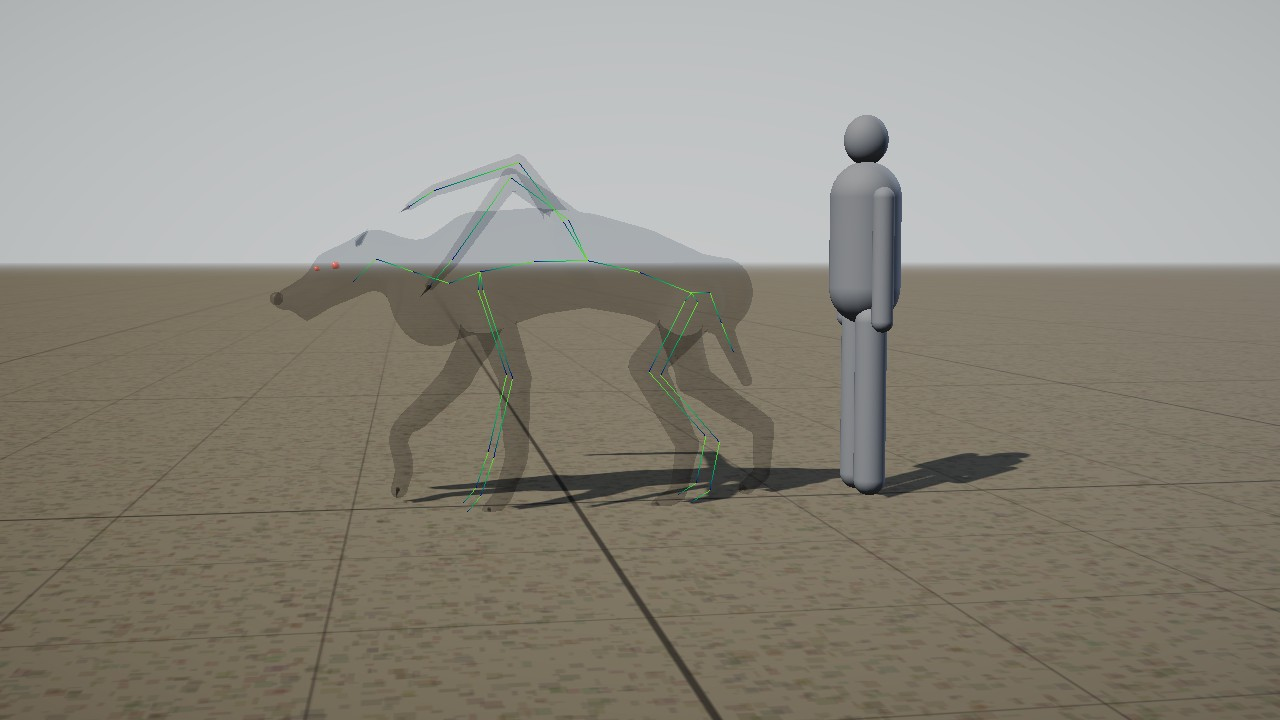
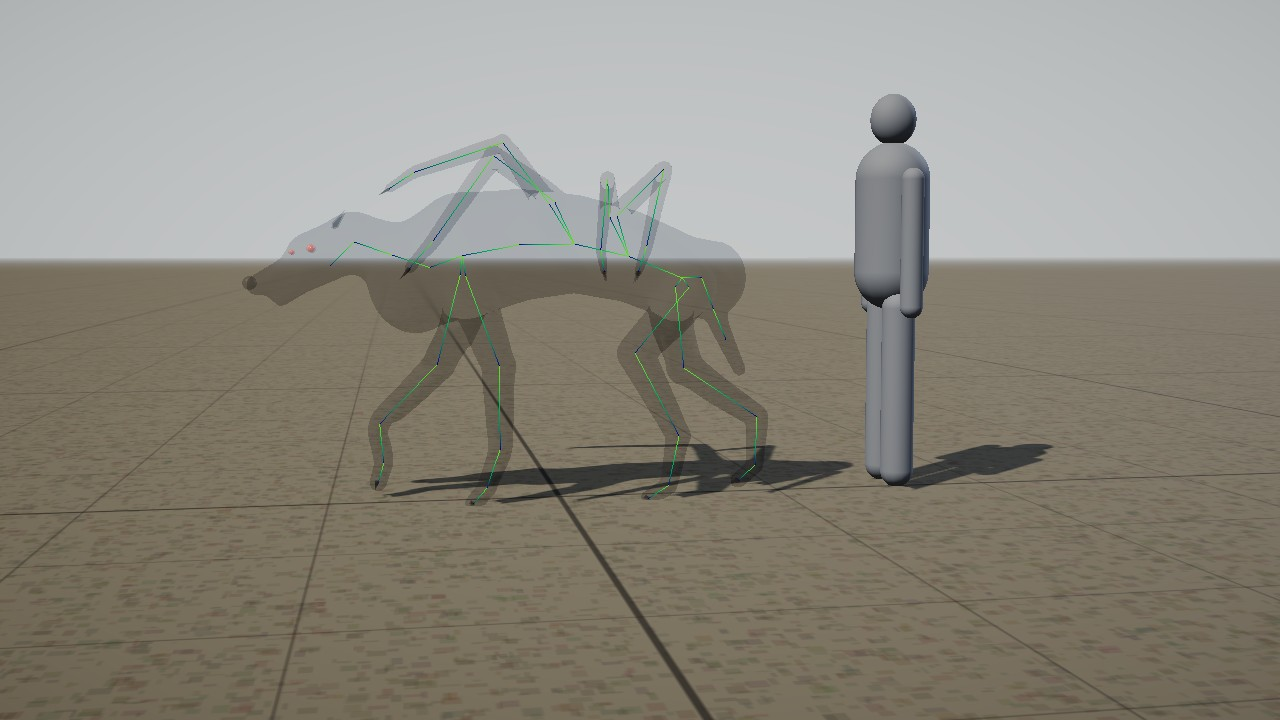
Bodies: Session 1342 — the Faolchú on the creature kit (card F4)
The kit's faolchu plan gains the second pair of arms the game's has had since S211.
On the new look the boss and its lesser kin wear it over the Dire Wolf's rig:
hcKind names a boss the kit may dress, the hunch is not copied twice, the seam
takes the phases' colour through the hide's glow uniform. Cell 0.03: 16,192 tris.

Claude-Session: https://claude.ai/code/session_01R3GFogsAgovcwV915dNF3D

diff --git a/js/34-creatures.js b/js/34-creatures.js
@@ -740,13 +740,16 @@ function tickSpider(rig,g,e,dt,now){
 // on the kit's skeleton (HC_KINDS' merge; people's hbMerge, each bit on the bone it hangs from), made the first time the spider comes
 // to the middle level, in a material of its own (the wind-up's red and the kill's darkening are its alone). The wolves, the boar, the
 // bear and the horses keep theirs: three draw calls, and the Ash Hound's ember seam is the hide's own shader, which the bake would lose.
-// The dragon and the Faolchú keep the old body: their plans are later work.
+// The dragon keeps the old body: its plan is later work.
+// Session 1342: the Faolchú (the boss and its lesser kin) wears the kit's own Faolchú, with both pairs of arms from its seam, over the
+// Dire Wolf's rig it is driven by. buildFaolchuMesh names it (rig.hcKind; a boss is otherwise never dressed) and hands over its sigil
+// material (rig.sigil), whose colour the phases set: the kit's seam takes it, at the plan's own brightness (hcPose).
 const HC_BODY={on:true,near:12,mid:40,build:44,small:.03,ms:0,n:0};
 const HC_RIGS=new Set();
 // the game's kinds and the kit's plans: a kind's own colours over the plan's (the kit's palettes are sRGB triples)
 const HC_KINDS={'Wolf':{plan:'wolf'},'Snow Wolf':{plan:'wolf',own:true},'Dire Wolf':{plan:'ironwolf',own:true},'Boar':{plan:'boar'},'Cave Bear':{plan:'bear',own:true},'Ash Hound':{plan:'ashhound'},'Horse':{plan:'horse',own:true,ik:true},'Grey Horse':{plan:'horse',own:true,ik:true},
   'Spider':{plan:'spider',own:true,spider:true,cell:.028,merge:true},'Sand Scorpion':{plan:'dunescorpion',own:true,spider:true,cell:.02,merge:true},
-  'Bog Crawler':{plan:'bogcrawler',own:true,spider:true,cell:.018,merge:true}};
+  'Bog Crawler':{plan:'bogcrawler',own:true,spider:true,cell:.018,merge:true},'Faolchú':{plan:'faolchu',own:true,cell:.03,unhunch:true}};
 // the driver's joints and the kit's bones they move, parents first (the kit's front legs hang on spine3, the hind on spine0)
 const HC_MAP=[['hips','spine0'],['spine','spine1'],['neck','neck0'],['head','head'],['jaw','jaw'],['tail1','tail0'],['tail2','tail1'],['tail3','tail2'],
   ['shL','leg0L_0'],['elL','leg0L_1'],['wrL','leg0L_2'],['pfL','leg0L_3'],['shR','leg0R_0'],['elR','leg0R_1'],['wrR','leg0R_2'],['pfR','leg0R_3'],
@@ -765,14 +768,15 @@ function hcSpMap(by,sc){const out=[];for(const [j,n] of sc?[['body','spine0']]:[
 function hcOn(){return HC_BODY.on&&window.OG_LOOK==='new'&&typeof HC!=='undefined';}
 // a kind's plan: the kit's own, or (k.own) a copy of it in the kind's coat, saddle and belly, made once
 function hcPlan(name){const K=HC_KINDS[name];if(!K.own)return K.plan;const id='game:'+name;
-  if(!HC.PLANS[id]&&K.spider)HC.PLANS[id]=Object.assign({},HC.PLANS[K.plan],{name,cell:K.cell});
+  if(!HC.PLANS[id]&&(K.spider||!WOLF_KINDS[name]))HC.PLANS[id]=Object.assign({},HC.PLANS[K.plan],{name,cell:K.cell});
   if(!HC.PLANS[id]){const k=WOLF_KINDS[name],c=h=>[(h>>16&255)/255,(h>>8&255)/255,(h&255)/255];
     HC.PLANS[id]=Object.assign({},HC.PLANS[K.plan],{name,palette:Object.assign({},HC.PLANS[K.plan].palette,{coat:c(k.coat),saddle:c(k.saddle),belly:c(k.belly)},HC.PLANS[K.plan].palette.mane?{mane:c(k.saddle)}:{})});}
   return id;}
-// a wolf the kit may dress: one of HC_KINDS, on the wolf's own body (not a boss on it: the Faolchú's hunch and arms are its own)
-function hcOk(rig){return !!HC_KINDS[rig.name]&&!rig.spider===!HC_KINDS[rig.name].spider&&!rig.hunch&&!(rig.e&&rig.e.bossId);}
+// a wolf the kit may dress: one of HC_KINDS, on the wolf's own body (not a boss on it, unless its builder names its kind: rig.hcKind)
+function hcKind(rig){return rig.hcKind||rig.name;}
+function hcOk(rig){const K=HC_KINDS[hcKind(rig)];return !!K&&!rig.spider===!K.spider&&(!!rig.hcKind||!rig.hunch&&!(rig.e&&rig.e.bossId));}
 function hcAttach(rig){const tA=performance.now();let C;
-  try{const key=rig.hcKey||'wolf:'+(rig.e&&rig.e.id!=null?rig.e.id:rig.name);C=HC.build(HC.genome(hcPlan(rig.name),key));}catch(e){rig.hcFail=true;console.warn('F4: the kit could not build',rig.name,e);return;}
+  try{const key=rig.hcKey||'wolf:'+(rig.e&&rig.e.id!=null?rig.e.id:rig.name);C=HC.build(HC.genome(hcPlan(hcKind(rig)),key));}catch(e){rig.hcFail=true;console.warn('F4: the kit could not build',rig.name,e);return;}
   const sp=!!rig.spider,sc=!!(rig.k&&rig.k.scorpion),by=C.byName,map=sp?hcSpMap(by,sc):hcMap(by);if(typeof map==='string'){rig.hcFail=true;console.warn('F4: the kit\'s',rig.name,'has no bone',map);return;}
   // at the driver's size: the kit's hips (spine0) at the driver's hips' height, and over them, in the driver's root (rig.root, which
   // carries the kind's size in play); the kit's rig carries its own size (C.S)
@@ -808,15 +812,16 @@ function hcAttach(rig){const tA=performance.now();let C;
   // the hips' travel: the driver's hips from their rest (the trot's bob, the crouch, the ragdoll's fall), in the driver's root,
   // into the kit's rig at f·C.S
   // the horses' hooves (HC_KINDS' ik): each leg's paw bone and its height over the driver's paw at rest, for hcLegIK
-  let ik=null;if(HC_KINDS[rig.name].ik){rig.root.updateMatrixWorld(true);ik=[['pfL','leg0L'],['pfR','leg0R'],['phL','leg1L'],['phR','leg1R']].map(([d,l])=>
+  let ik=null;if(HC_KINDS[hcKind(rig)].ik){rig.root.updateMatrixWorld(true);ik=[['pfL','leg0L'],['pfR','leg0R'],['phL','leg1L'],['phR','leg1R']].map(([d,l])=>
     ({d,bs:[by[l+'_2'],by[l+'_1'],by[l+'_0']],end:by[l+'_3'],oy:by[l+'_3'].getWorldPosition(new THREE.Vector3()).y-B[d].getWorldPosition(new THREE.Vector3()).y}));}
   const hb=sp?B.body:B.hips;
   const scorp=sc?{tail:Object.keys(by).filter(n=>/^tail\d+$/.test(n)).map(n=>by[n]),arms:[[by.arm0L_0,1],[by.arm0R_0,-1]]}:null;
   // a water bug's forelegs (Session 1337): each femur and tibia, and the tibia's hinge from the kit's rest (its bones' rest turns are the identity)
   const bug=rig.k&&rig.k.bug&&by.arm0L_2?['L','R'].map(n=>({n,fem:by['arm0'+n+'_0'],tib:by['arm0'+n+'_1'],ax:by['arm0'+n+'_1'].position.clone().cross(by['arm0'+n+'_2'].position).normalize()})):null;
-  rig.hc={W,C,map,s0,t0,fur,small,ik,feet,hb,scorp,bug,merge:!!HC_KINDS[rig.name].merge,mid:null,bits:C.B.bits.map(b=>b.obj),hide:meshes.filter(m=>!fur.includes(m)),hip0:sp?B.body.position.clone():new THREE.Vector3(B.hips.position.x,wolfHipY(rig.k),B.hips.position.z),pos0:by.spine0.position.clone(),k:1/(f*C.S),L:-1,drv:rig.mesh.material,em:-1};
+  rig.hc={W,C,map,s0,t0,fur,small,ik,feet,hb,scorp,bug,merge:!!HC_KINDS[hcKind(rig)].merge,unhunch:!!HC_KINDS[hcKind(rig)].unhunch,glow:meshes.map(m=>m.material.userData&&m.material.userData.uGlow).filter(u=>u&&u.value&&u.value.isColor),mid:null,bits:C.B.bits.map(b=>b.obj),hide:meshes.filter(m=>!fur.includes(m)),hip0:sp?B.body.position.clone():new THREE.Vector3(B.hips.position.x,wolfHipY(rig.k),B.hips.position.z),pos0:by.spine0.position.clone(),k:1/(f*C.S),L:-1,drv:rig.mesh.material,em:-1};
   HC_BODY.ms+=performance.now()-tA;HC_BODY.n++;}
-function hcPose(rig){const H=rig.hc,B=rig.B,map=H.map;
+function hcPose(rig){const H=rig.hc,B=rig.B,map=H.map,uh=H.unhunch&&rig.hunch;
+  if(uh){B.spine.rotation.x-=uh[0];B.neck.rotation.x-=uh[1];B.head.rotation.x-=uh[2];}
   for(let i=0;i<map.length;i++){const [j,b]=map[i];
     hbRel(B[j],rig.root,_hbq).multiply(H.s0[i]).multiply(H.t0[i]);
     if(b.parent&&b.parent.isBone){hbRel(b.parent,H.W,_hbq2).invert();b.quaternion.copy(_hbq2.multiply(_hbq));}else b.quaternion.copy(_hbq);}
@@ -825,6 +830,9 @@ function hcPose(rig){const H=rig.hc,B=rig.B,map=H.map;
   if(H.feet)hcSpFeet(rig);
   if(H.scorp)hcScorp(rig);
   if(H.bug)hcBug(rig);
+  if(uh){B.spine.rotation.x+=uh[0];B.neck.rotation.x+=uh[1];B.head.rotation.x+=uh[2];}
+  // the Faolchú's seam in the phase's colour (its sigils' red, 1,0.1,0.04, is the plan's 3.2,0.55,0.2 at a third)
+  if(rig.sigil)for(const u of H.glow)u.value.copy(rig.sigil.color).multiplyScalar(3.2);
   // the wind-up's red and the parry's gold on the driver's material, on the kit's (its eyes and claws keep their own)
   const m=rig.mesh.material;let em=m&&m.emissive?m.emissive.getHex():0;if(m!==H.drv&&m&&m.color&&m.color.getHex()===0xffdd44)em=0xb08010;
   if(em!==H.em){H.em=em;for(const o of [...H.hide,...H.fur,...(H.mid?[H.mid]:[])])for(const x of Array.isArray(o.material)?o.material:[o.material])if(x.emissive)x.emissive.setHex(em);}}

diff --git a/docs/prototypes/levelup/creatures.js b/docs/prototypes/levelup/creatures.js
@@ -721,7 +721,9 @@ function seamRun(S, z) { let k = 1; if (S.z) k = sstep(S.z[0] - .05, S.z[0], z) 
 const GLOW_HEAD = 'attribute float aGlow; attribute float aFur; varying float vGlow; varying float vFur; varying vec3 vRP;\n';
 function hideMat(o) {
   const m = new THREE.MeshStandardMaterial({ vertexColors: true, roughness: o.rough ?? .85, metalness: 0, ...(o.opacity < 1 ? { transparent: true, opacity: o.opacity, depthWrite: false } : {}) });
-  m.onBeforeCompile = s => { s.uniforms.uGlow = { value: new THREE.Color(...(o.glow || [0, 0, 0])) };
+  // the glow's colour is one uniform kept on the material (userData.uGlow), so a caller may recolour it (the game's Faolchú by its phase)
+  const uGlow = m.userData.uGlow = { value: new THREE.Color(...(o.glow || [0, 0, 0])) };
+  m.onBeforeCompile = s => { s.uniforms.uGlow = uGlow;
     s.vertexShader = GLOW_HEAD + (o.face ? 'attribute float aAlpha; varying float vAlpha;\n' : '') + s.vertexShader.replace('#include <begin_vertex>', '#include <begin_vertex>\n vGlow = aGlow; vFur = aFur; vRP = position;' + (o.face ? ' vAlpha = aAlpha;' : ''));
     s.fragmentShader = 'uniform vec3 uGlow; varying float vGlow; varying float vFur; varying vec3 vRP;\n' + (o.face ? 'varying float vAlpha;\n' : '') + s.fragmentShader.replace('#include <emissivemap_fragment>', '#include <emissivemap_fragment>\n totalEmissiveRadiance += uGlow * vGlow;')
       .replace('vec4 diffuseColor = vec4( diffuse, opacity );', o.face ? 'vec4 diffuseColor = vec4( diffuse, opacity * vAlpha );' : 'vec4 diffuseColor = vec4( diffuse, opacity );'); };
@@ -1122,7 +1124,9 @@ export const PLANS = {
       ['legs', { at: 1, kind: 'canidFore', out: .12, drop: .08, claws: { r: .01, len: .04 } }],
       ['legs', { at: 0, kind: 'canidHind', out: .12, drop: .04, claws: { r: .01, len: .04 } }],
       // the extra arms that come out of the seam down its back (canon: "extra arms emerging from a spine seam that glows red")
-      ['arms', { at: .6, out: .08, up: .18, len: 1.05, r: [.055, .042, .03], dir: [.75, .45, .45], dir2: [.3, -.8, .5], tone: 'skin', claws: { r: .008, len: .06 }, swing: .35, phase: .8 }]
+      ['arms', { at: .6, out: .08, up: .18, len: 1.05, r: [.055, .042, .03], dir: [.75, .45, .45], dir2: [.3, -.8, .5], tone: 'skin', claws: { r: .008, len: .06 }, swing: .35, phase: .8 }],
+      // Session 1342: the second pair, behind and lower, as the game's Faolchú has had since Session 211 (Michael's "great as is" on S201)
+      ['arms', { at: .32, out: .08, up: .16, len: .85, r: [.048, .036, .026], dir: [.8, .4, -.2], dir2: [.35, -.85, -.1], tone: 'skin', claws: { r: .008, len: .05 }, swing: .3, phase: 2.4 }]
     ] },
   bear: { name: 'Frostreach Bear', src: 'OG-031, OG-084 (Crag Bear)', gaits: ['walk', 'trot', 'gallop', 'stand'], fold: .6,
     palette: { coat: [.8, .78, .72], saddle: [.64, .61, .55], belly: [.88, .86, .81], dark: [.08, .07, .06] },

diff --git a/vendor/creatures.builder.js b/vendor/creatures.builder.js
@@ -2151,7 +2151,9 @@ function seamRun(S, z) { let k = 1; if (S.z) k = sstep(S.z[0] - .05, S.z[0], z) 
 const GLOW_HEAD = 'attribute float aGlow; attribute float aFur; varying float vGlow; varying float vFur; varying vec3 vRP;\n';
 function hideMat(o) {
   const m = new THREE.MeshStandardMaterial({ vertexColors: true, roughness: o.rough ?? .85, metalness: 0, ...(o.opacity < 1 ? { transparent: true, opacity: o.opacity, depthWrite: false } : {}) });
-  m.onBeforeCompile = s => { s.uniforms.uGlow = { value: new THREE.Color(...(o.glow || [0, 0, 0])) };
+  // the glow's colour is one uniform kept on the material (userData.uGlow), so a caller may recolour it (the game's Faolchú by its phase)
+  const uGlow = m.userData.uGlow = { value: new THREE.Color(...(o.glow || [0, 0, 0])) };
+  m.onBeforeCompile = s => { s.uniforms.uGlow = uGlow;
     s.vertexShader = GLOW_HEAD + (o.face ? 'attribute float aAlpha; varying float vAlpha;\n' : '') + s.vertexShader.replace('#include <begin_vertex>', '#include <begin_vertex>\n vGlow = aGlow; vFur = aFur; vRP = position;' + (o.face ? ' vAlpha = aAlpha;' : ''));
     s.fragmentShader = 'uniform vec3 uGlow; varying float vGlow; varying float vFur; varying vec3 vRP;\n' + (o.face ? 'varying float vAlpha;\n' : '') + s.fragmentShader.replace('#include <emissivemap_fragment>', '#include <emissivemap_fragment>\n totalEmissiveRadiance += uGlow * vGlow;')
       .replace('vec4 diffuseColor = vec4( diffuse, opacity );', o.face ? 'vec4 diffuseColor = vec4( diffuse, opacity * vAlpha );' : 'vec4 diffuseColor = vec4( diffuse, opacity );'); };
@@ -2552,7 +2554,9 @@ const PLANS = {
       ['legs', { at: 1, kind: 'canidFore', out: .12, drop: .08, claws: { r: .01, len: .04 } }],
       ['legs', { at: 0, kind: 'canidHind', out: .12, drop: .04, claws: { r: .01, len: .04 } }],
       // the extra arms that come out of the seam down its back (canon: "extra arms emerging from a spine seam that glows red")
-      ['arms', { at: .6, out: .08, up: .18, len: 1.05, r: [.055, .042, .03], dir: [.75, .45, .45], dir2: [.3, -.8, .5], tone: 'skin', claws: { r: .008, len: .06 }, swing: .35, phase: .8 }]
+      ['arms', { at: .6, out: .08, up: .18, len: 1.05, r: [.055, .042, .03], dir: [.75, .45, .45], dir2: [.3, -.8, .5], tone: 'skin', claws: { r: .008, len: .06 }, swing: .35, phase: .8 }],
+      // Session 1342: the second pair, behind and lower, as the game's Faolchú has had since Session 211 (Michael's "great as is" on S201)
+      ['arms', { at: .32, out: .08, up: .16, len: .85, r: [.048, .036, .026], dir: [.8, .4, -.2], dir2: [.35, -.85, -.1], tone: 'skin', claws: { r: .008, len: .05 }, swing: .3, phase: 2.4 }]
     ] },
   bear: { name: 'Frostreach Bear', src: 'OG-031, OG-084 (Crag Bear)', gaits: ['walk', 'trot', 'gallop', 'stand'], fold: .6,
     palette: { coat: [.8, .78, .72], saddle: [.64, .61, .55], belly: [.88, .86, .81], dark: [.08, .07, .06] },

diff --git a/js/42-zone-enemies.js b/js/42-zone-enemies.js
@@ -114,6 +114,7 @@ function buildFaolchuMesh(d){
   eyeGl.position.set(0, .70*sc, 1.05*sc);
   g.add(eyeGl);
   limbs.sigilTrace = sigilMat;
+  w.hcKind = 'Faolchú'; w.sigil = sigilMat; // S1342 — on the new look the creature kit's Faolchú dresses it (hcOk, hcPose)
   limbs.sigilMeshes = sigilMeshes;
   const auraGl=new THREE.PointLight(d.light, 2.2, 9);
   auraGl.position.set(0, .6*sc, 0);

diff --git a/docs/backlog.md b/docs/backlog.md
@@ -511,7 +511,7 @@ Michael marked all 96 images of the intake on the review page: 63 KEEP and 33 NO
 
 ### L4. The gates' foes (with C's gates by school)
 - **Each school's hall and antibodies** (look and systems; OG-018, which draws §9a exactly): Tine forge-hot, Uisce drowned, Cloch fallen masonry, Scáth violet dark, Solas white light, Gaoth open to the sky; occupied gates as goblin warrens. New foes: Magma Slime, Drowned Skeleton, Frost Thing (needs a folk shape under the ice; two plans in the kit, Session 958, `frostshard` and `frostfolk`; Michael's B on DECISION #362, the folk shape, `frostfolk`; ~~its face~~ — done, Session 968: the skeleton's skull inside his head, seen through ice thinned to 0.4 over the face, `faceClear` in the kit; `creatures-frostfolk-head.jpg`, `-front.jpg`; owed: the game, after F4), Wisp and Winged Thing, which fill Gaoth, the school with no foes yet. **The Winged Thing is a plan in the kit, Session 955** (bodies builder; `creatures.js` `wingedthing`, `creatures-wingedthing.jpg`, `-fly.jpg`): a griffin of a big cat's body, an eagle's head and beak, feathered wings and a feathered tail fan, pale storm-grey; ~~eagle's talons for its forefeet~~ — done, Session 960 (`talonFore`, a hind toe on `claws.back`; `creatures-wingedthing-front.jpg`); ~~hooked, not straight~~ — done, Session 970 (`claws.hook` in the kit: each claw arches onto its point, its tip where a straight one's is; `creatures-wingedthing-foot.jpg`, from the bestiary's new `cam=foot`); ~~its folded wing's feathers fanned out sideways from the wrist~~ — done, Session 974 (a quill bone for every flight feather in the kit, turned back along the body when the wing folds, on all nine feathered fliers; `creatures-wingedthing-folded.jpg`, `creatures-craghawk-folded.jpg`, `creatures-duskeagle-folded.jpg`); ~~the folded wing a thin dark line from the side~~ — done, Session 983 (each quill also rolled about its own line so the card leans down over the flank, faces 39 degrees from facing out on average where they were 84; `creatures-wingedthing.jpg` against `creatures-wingedthing-side-before.jpg`); ~~the Dusk Eagle's ragged primaries closing like a whole wing~~ — done, Session 984 (`feathers.ragged` fans the few primaries down the flank when folded, 3.2 degrees between neighbours where the hawks' stack at 0.6; `creatures-duskeagle-perched.jpg`, `creatures-duskeagle-folded.jpg`); owed: the game (after F4). **OG-018's gargoyles are plans, Session 956** (`gargoyle` for Cloch, moss-stained stone, and `gaothgargoyle`, weathered pale, wings a quarter wider; `GARGOYLES`; `creatures-gargoyle.jpg`, `-front.jpg`, `-fly.jpg`, `creatures-gaothgargoyle.jpg`): the goblin's crouched frame in stone, horns, a tail, a stone ridge, bat wings folded up behind the shoulders by `wingRest`; the wings' stone skin drew near black, ~~fixed~~ — done, Session 959 (`wingLight`: a skin wing gives back a share of its colour as light through it; the dragon's too); owed: the game's dormant Gargoyle replaced (after F4).
-- **The classic five, dark** (look builder; OG-041): a skeleton with a notched sword and round shield, a crouched goblin with spear and hide shield, a cave troll whose hide grows moss (a Cloch troll), a slime with bones and rubble inside, a pale giant spider with egg sacs. **The cave troll is a plan in the kit, Session 926** (bodies builder; `creatures.js` `troll`, `creatures-troll.jpg`): a hunched biped, 2.2 m to the crown, moss on its stone-grey hide; OG-018's Tine and Uisce trolls as recolours and a brow on the head, Session 927 (`TROLLS`, `creatures-trolls.jpg`); ~~its lashed-on armour scraps~~ — done, Session 945 (`straps` again: iron plates on the chest and shoulder and a rawhide sheet on the back under three leather lashings, on the OG-041 troll only; `creatures-troll-front.jpg`, `-back.jpg`). **The slime is a plan, Session 928** (`slime`, with OG-018's `magmaslime` for Tine; `SLIMES`): clear, bones and rubble inside; ~~the holes through it~~ — done, Session 954 (`holes` in the kit: three tunnels cut through the flesh from flank to flank, both slimes on a 6 cm grid; `creatures-slime.jpg`, `creatures-magmaslime.jpg`). **The giant spider's thorns and egg sacs, Session 932** (`spider`: thorns up every leg segment, a clutch of silk sacs under the abdomen's tip; `creatures-spider.jpg`, `creatures-spider-back.jpg`). **The goblin is a plan, Session 933** (`goblin`, `GOBLINS`; `creatures-goblin.jpg`, `creatures-goblin-front.jpg`, `creatures-classic.jpg`): the troll's frame at half its height, long ears, a spear and a hide shield (`gear` in the kit, the first gear on a creature); ~~its scrap-leather harness~~ — done, Session 944 (`straps` in the kit: a belt, a sash and a hide shoulder scrap laid 7 mm on the grown skin, each point on the skin's own weights; `creatures-goblin-front.jpg`, `-back.jpg`). **The skeleton is a plan, Session 934** (`skeleton`, `SKELETONS`; `creatures-skeleton.jpg`, `creatures-skeleton-front.jpg`): the kit's first bare body (`bare`: its capsules drawn as bones), ribs and a pelvis, a notched sword and a round wooden shield; ~~its hip rags (cloth on a creature)~~ — done, Session 943 (`rags` in the kit: torn strips on a cord, passing to the thigh bones down their length; `creatures-skeleton-front.jpg`, `-back.jpg`); ~~a truer skull~~ — done, Session 942 (a modelled skull and mandible, 20 teeth, the drowned skeleton's eyes lit in the sockets; `creatures-skeleton-skull*.jpg`); ~~OG-018's drowned skeleton (Uisce)~~ — done, Session 935 (`drownedskeleton`, weed-hung; `creatures-drownedskeleton.jpg`). So all five of OG-041 are plans (`creatures-classic.jpg`). ~~The giant spider in the game~~ — done, Session 1319 (bodies builder; the Spider foe on the kit's `spider` behind the new look, at twice the kit's cell, its eight feet set where its old rig's are; `f4spiders`, `docs/prototypes/f4/f4-spiders.jpg`); ~~the Sand Scorpion (`dunescorpion`)~~ — done, Session 1325 (`f4spiders`, `docs/prototypes/f4/f4-scorpion.jpg`); the Bog Crawler is a plan in the kit, Session 1336 (`bogcrawler`, `CRAWLERS`: a flat oval water bug on four walking legs, the raptorial forelegs as arms with a hooked tibia, `hook` in the kit's arms; `creatures-bogcrawler-*.jpg`); ~~the Bog Crawler in the game~~ — done, Session 1337 (behind the new look on the spider's driver, its forelegs folding with the driver's fang and hook bones, `hcBug`; `f4spiders`, `docs/prototypes/f4/f4-bogcrawler.jpg`): the whole spider family wears the kit.
+- **The classic five, dark** (look builder; OG-041): a skeleton with a notched sword and round shield, a crouched goblin with spear and hide shield, a cave troll whose hide grows moss (a Cloch troll), a slime with bones and rubble inside, a pale giant spider with egg sacs. **The cave troll is a plan in the kit, Session 926** (bodies builder; `creatures.js` `troll`, `creatures-troll.jpg`): a hunched biped, 2.2 m to the crown, moss on its stone-grey hide; OG-018's Tine and Uisce trolls as recolours and a brow on the head, Session 927 (`TROLLS`, `creatures-trolls.jpg`); ~~its lashed-on armour scraps~~ — done, Session 945 (`straps` again: iron plates on the chest and shoulder and a rawhide sheet on the back under three leather lashings, on the OG-041 troll only; `creatures-troll-front.jpg`, `-back.jpg`). **The slime is a plan, Session 928** (`slime`, with OG-018's `magmaslime` for Tine; `SLIMES`): clear, bones and rubble inside; ~~the holes through it~~ — done, Session 954 (`holes` in the kit: three tunnels cut through the flesh from flank to flank, both slimes on a 6 cm grid; `creatures-slime.jpg`, `creatures-magmaslime.jpg`). **The giant spider's thorns and egg sacs, Session 932** (`spider`: thorns up every leg segment, a clutch of silk sacs under the abdomen's tip; `creatures-spider.jpg`, `creatures-spider-back.jpg`). **The goblin is a plan, Session 933** (`goblin`, `GOBLINS`; `creatures-goblin.jpg`, `creatures-goblin-front.jpg`, `creatures-classic.jpg`): the troll's frame at half its height, long ears, a spear and a hide shield (`gear` in the kit, the first gear on a creature); ~~its scrap-leather harness~~ — done, Session 944 (`straps` in the kit: a belt, a sash and a hide shoulder scrap laid 7 mm on the grown skin, each point on the skin's own weights; `creatures-goblin-front.jpg`, `-back.jpg`). **The skeleton is a plan, Session 934** (`skeleton`, `SKELETONS`; `creatures-skeleton.jpg`, `creatures-skeleton-front.jpg`): the kit's first bare body (`bare`: its capsules drawn as bones), ribs and a pelvis, a notched sword and a round wooden shield; ~~its hip rags (cloth on a creature)~~ — done, Session 943 (`rags` in the kit: torn strips on a cord, passing to the thigh bones down their length; `creatures-skeleton-front.jpg`, `-back.jpg`); ~~a truer skull~~ — done, Session 942 (a modelled skull and mandible, 20 teeth, the drowned skeleton's eyes lit in the sockets; `creatures-skeleton-skull*.jpg`); ~~OG-018's drowned skeleton (Uisce)~~ — done, Session 935 (`drownedskeleton`, weed-hung; `creatures-drownedskeleton.jpg`). So all five of OG-041 are plans (`creatures-classic.jpg`). ~~The giant spider in the game~~ — done, Session 1319 (bodies builder; the Spider foe on the kit's `spider` behind the new look, at twice the kit's cell, its eight feet set where its old rig's are; `f4spiders`, `docs/prototypes/f4/f4-spiders.jpg`); ~~the Sand Scorpion (`dunescorpion`)~~ — done, Session 1325 (`f4spiders`, `docs/prototypes/f4/f4-scorpion.jpg`); the Bog Crawler is a plan in the kit, Session 1336 (`bogcrawler`, `CRAWLERS`: a flat oval water bug on four walking legs, the raptorial forelegs as arms with a hooked tibia, `hook` in the kit's arms; `creatures-bogcrawler-*.jpg`); ~~the Bog Crawler in the game~~ — done, Session 1337 (behind the new look on the spider's driver, its forelegs folding with the driver's fang and hook bones, `hcBug`; `f4spiders`, `docs/prototypes/f4/f4-bogcrawler.jpg`): the whole spider family wears the kit. ~~The Faolchú in the game~~ — done, Session 1342 (the boss and its lesser kin on the kit's own `faolchu`, two pairs of arms now, over the Dire Wolf's rig without its hunch, the seam in the phase's colour, cell 0.03: 16,112 triangles, 146 ms; `faolchu`, `docs/prototypes/f4/f4-faolchu.jpg`). Still on the old body: the dragon.
 - **Failing gates change their foes** (look builder; OG-073): one rig per foe with extra limbs and broken anatomy for a failing gate, glow only at the seams. The catastrophic column is a boss tier below the dragon (Michael's 8 B; canon §5). **Solas's failing skeleton is a plan in the kit, Session 1168** (bodies builder; `creatures.js` `failingskeleton`, `FAILING`, `creatures-failingskeleton*.jpg`, `creatures-failing-solas.jpg`): the steady skeleton with two more pairs of arms, bone spurs down the back, three more ribs, and its bones cracked with only the cracks lit white-gold; ~~Gaoth's failing gargoyle~~ — done, Session 1169 (`failinggargoyle`: wings half again the Cloch gargoyle's, a second pair of clawed arms from the shoulder blades, the stone's cracks lit storm blue-white; `creatures-failinggargoyle-*.jpg`); ~~Uisce's failing slime~~ — done, Session 1174 (`failingslime`: a third bigger, pale blue-white, three crests rising off its back and rolling each on its own beat, more of the drowned inside, the veins lit sea-blue; the kit's new `crests` part; `creatures-failingslime-*.jpg`); ~~the steady golem~~ — done, Session 1175 (`golem`, `GOLEMS`: OG-018's mossy Cloch golem, the game's dressed stone, every bone a hewn block, the kit's new `bare.blocks`; `creatures-golem-*.jpg`); ~~Cloch's failing golem~~ — done, Session 1176 (`failinggolem`: doubled into a pair on one rig, two heads and two pairs of arms on a widened chest, the blocks cracked and the cracks lit Cloch's violet; `P.head` takes a `name`, `off` and `yaw`; `creatures-failinggolem-*.jpg`); ~~the steady wraith~~ — done, Session 1177 (`wraith`, `WRAITHS`: OG-018's Scáth wraith as the game's since S555, a hollow hood with two violet slits, no legs, a robe floating clear of the ground torn into tongues, long arms with bone claws; the kit's `hover` gait, `hood`, slit eyes; `creatures-wraith-*.jpg`; ~~its dark oval seen from behind~~ — done, Session 1187: the hood's black cup showed through the clear cowl, now drawn only while the eye is ahead of its opening, `hoodFacing`, `creatures-wraith-back.jpg`); ~~Scáth's failing wraith~~ — done, Session 1178 (`failingwraith`: a second pair of clawed arms from the robe's middle, a second ring of torn cloth and the hem's tongues longer, the seams lit Scáth's violet; `creatures-failingwraith-*.jpg`); ~~the steady fire elemental~~ — done, Session 1185 (`fireelemental`, `ELEMENTALS`: OG-018's Tine elemental as the game's since S222, no legs, a dark slag crust lit only in its cracks over a column of flame, 14 tongues grown from the body with a crown of 4 on the head, licking at rest, arms of flame with lit claws; the kit's crests rooted anywhere, `glow.tones`, `flicker`; `creatures-fireelemental-*.jpg`); ~~Tine's failing form~~ — done, Session 1186 (`failingfireelemental`: the flame clearer and hotter, and through it a skeleton of dark hewn stone, blocks on the spine and neck, stone ribs and hip, a stone skull with its eyes lit, a shaft down every arm; a second pair of flaming arms off the ribs, stone spurs breaking out at the shoulders and back; the kit's `frame`; `creatures-failingfireelemental-*.jpg`), so all six of OG-073's failing forms are plans; ~~a second pair of wings for Gaoth's~~ — done, Session 1191 (`P.wings` takes a `pair`, named into its bones, with its own `rest` and beat `phase`; `failinggargoyle`'s second pair lower on the back, three-fingered, beating out of step; `creatures-failinggargoyle-*.jpg`); owed: the game (after F4).
 - **Corrupted animals by school** (look builder; OG-088): a shape change, never a recolour: a frost bear (Uisce), a crystal-spined boar and a stone troll (Cloch), a stag whose antlers breathe mist (Scáth), a dusk eagle (Gaoth). The gate-born row as silhouettes for gate interiors. Drop the sheet's *mana* and *original inhabitants* lines. **Four are plans in the kit, Session 919** (bodies builder; `creatures.js` `CORRUPTED`, `creatures-corrupted.jpg`): the frost wraith bear (Uisce), the blight boar (Cloch), the stag of shadows (Scáth), the dusk eagle (Gaoth); the frost bear's crown moved to its brow, Session 925; the stone troll (Cloch), Session 926 (`stonetroll`, from the new `troll`); ~~the stag's mist~~ — done, Session 969 (`antlers.mist` in the kit: soft violet puffs rising from every tine, looped on the stride; `creatures-shadowstag.jpg`, `-front.jpg`); ~~the mist rising in the head's frame~~ — done, Session 975 (it rises in the body's up and drifts along the body's back, whatever the head does); owed: the game (after F4).
 

diff --git a/docs/devlog/1342.md b/docs/devlog/1342.md
@@ -1,0 +1,46 @@
+## v80 — Session 1342 — the Faolchú on the kit (card F4's next family)
+The run's first item, and the next family named in Session 1337's devlog: the Faolchú. It is Act I's boss, and its lesser kin
+(`spawnLesserFaolchu`) were the last wolf-bodied foes on the old body beside the dragon. On the new look it now wears the creature
+kit's own Faolchú, driven by the Dire Wolf's rig that `buildFaolchuMesh` has used since Session 211.
+
+**Two pairs of arms.** The kit's plan (Session 772's `faolchu`) had one pair of arms from the seam. The game's Faolchú has had two
+since Session 211, the look Michael called "great as is" on Session 201's prototype. The plan gains the second pair as a second
+`arms` part: at 0.32 of the spine, a little shorter (0.85), reaching out and back, swinging out of phase with the first. The kit's
+arms take a second part with no new code (the bones are `arm1L_*`, as on the crab's plans). `creatures-faolchu.jpg` and its bones
+picture are taken again.
+
+**Into the game.**
+- `HC_KINDS` gains `'Faolchú'`: the plan copied once as `game:Faolchú` at cell 0.03. At the kit's own cell, which is set by the
+  arms' 2.6 cm tips, it was 86,668 triangles and a 628 ms build. At 0.03 it is 16,192 triangles and 118–146 ms, and the arms still
+  read as arms. `hcPlan` copies a kind with no `WOLF_KINDS` coat as it copies a spider's (the plan's own palette).
+- `hcOk` dressed no boss and nothing hunched. A builder can now name its kind (`rig.hcKind`, read through `hcKind(rig)`), and a named
+  rig is dressed. `buildFaolchuMesh` names it `'Faolchú'` and hands over its sigil material (`rig.sigil`). It is a one-line hook in
+  `42-zone-enemies.js`, and nothing else there changed.
+- **Not hunched twice.** The driver carries the Faolchú's hunch (`rig.hunch`, added by `wgApply` to the spine, neck and head). The
+  kit's plan is arched already (spine arch 0.1, head pitch 22°), and copying the hunch onto it as well buried the head between the
+  forelegs (the middle one in the picture). `unhunch` takes the hunch off the driver's three joints while `hcPose` copies them, then
+  puts it back, so the driver, its sigils and every check on its pose are as they were.
+- **The seam by phase.** The phases colour `limbs.sigilTrace`: the boss's red, the lesser kin's darker red, the flare's white-gold,
+  the dying flare. The kit's seam is a uniform in the hide's shader. `hideMat` now keeps it on the material (`userData.uGlow`, the
+  same object a clone's shader uses), and `hcPose` sets it to the sigils' colour × 3.2. The sigils' red (1, 0.1, 0.04) then gives
+  (3.2, 0.33, 0.13), close to the plan's own (3.2, 0.55, 0.2), and the flare gives (3.2, 2.72, 1.92).
+- What stays the driver's: the eye light and the aura light on the group, the HP bar, the death burst (it reads the old sigils'
+  positions, and the driver's bones are still posed every frame while it is hidden), and the shadow (the shadow pass draws the
+  driver, as for every kit beast).
+
+### Verified (headless Chromium)
+- `faolchu` 10/10, three checks new. On the new look the kit's own Faolchú is `game:Faolchú`: 48 bones, 16,192 triangles, built in
+  118 ms, its hips 0 m from the driver's, all 24 joints copied, 4 arms from its back. The driver's neck is unchanged by the copy
+  (the hunch kept, 0.35 below a dire wolf's), the flare's seam is (3.2, 2.72, 1.92), the lesser Faolchú is dressed too, and taken
+  from the scene it is dropped. The old six checks pass as before.
+- `creatures.check.mjs --plans=faolchu --shots --bones`: all passed (builds, weights, every foot through every gait).
+- `creatures_bundle.py --check` matches; `parsecheck` OK.
+- `f4wolves`, `f4beasts`, `f4spiders`: see the PR (run after `hcOk` changed; a rig with no `hcKind` takes the old rule unchanged).
+- Picture: `docs/prototypes/f4/f4-faolchu.jpg`, from 8 m in the open world. Left, the kit's Faolchú as built. Middle, the same
+  hunched twice (the comparison, not kept). Right, the old body.
+
+### Needs eyes
+- The coat reads red-brown in daylight, not near-black as on the builder's page. The boss's own aura light (red-orange, 2.2 within
+  9 m) falls on it, as it falls on the old body. At Ashenmoor's burning it may be right. In plain day it softens the "alive and wrong".
+- The arms hold their rest (the kit's arm swing is a gait's, and the driver has no arm bones to copy), as the old arms did. Arms that
+  reach in the wind-up would be the next step, driven from the driver's bite as the Bog Crawler's forelegs are.
